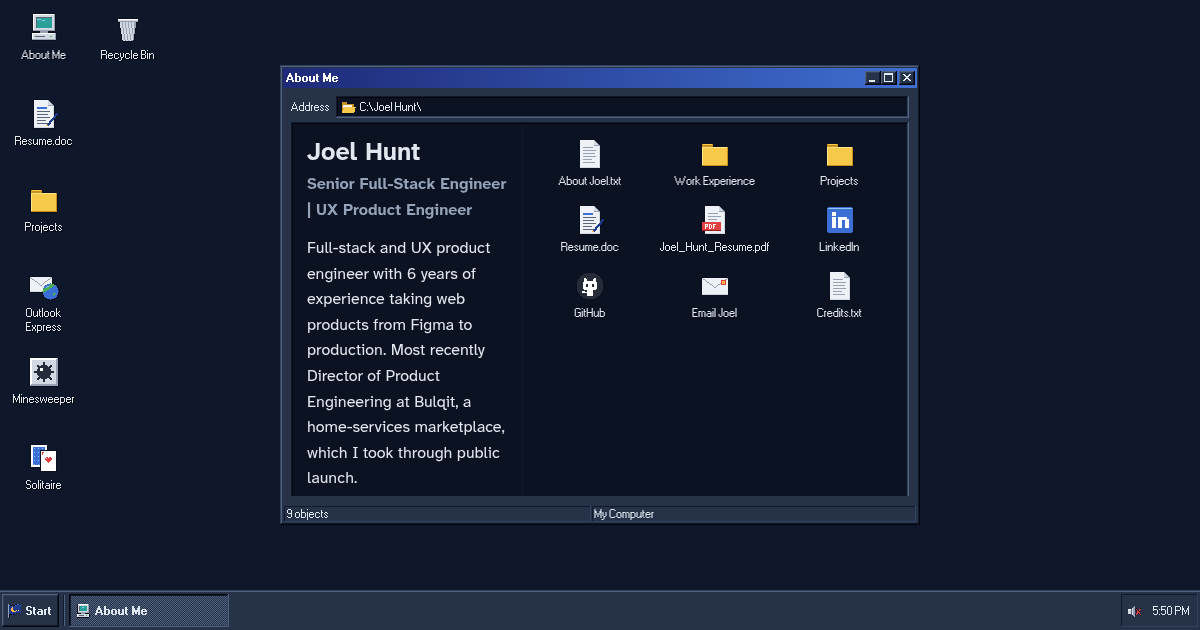
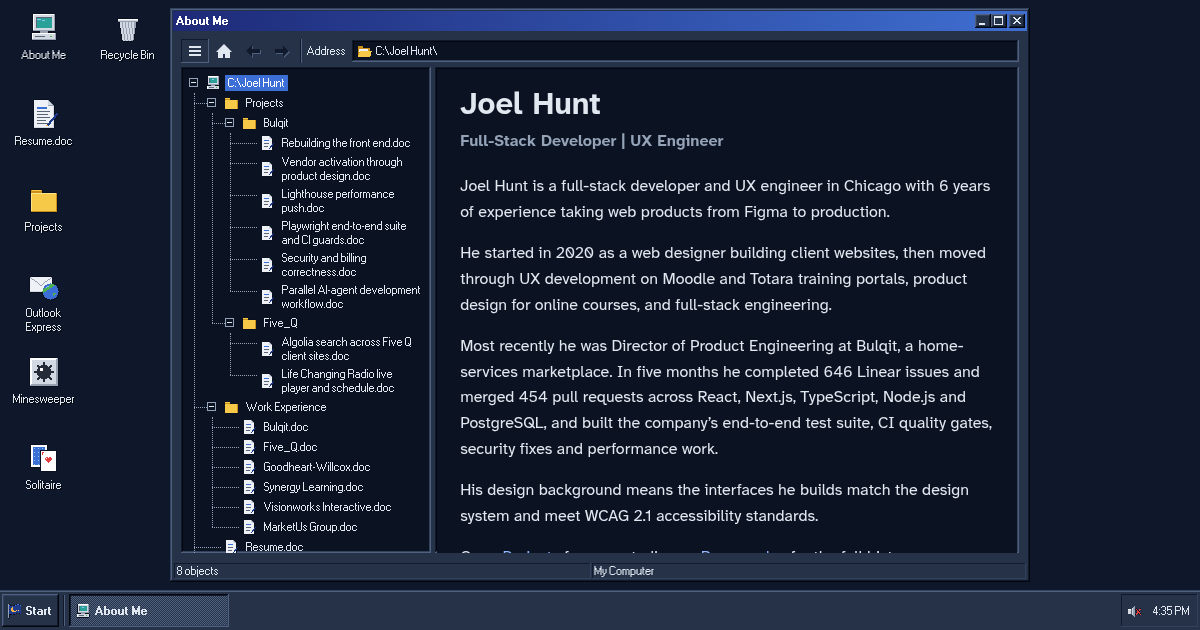
Change title to Full-Stack Developer | UX Engineer
Update the profile title, boot screen, summaries and page descriptions,
and refresh the social preview image to show the new title and the
current About Me explorer.

Claude-Session: https://claude.ai/code/session_01SxMcmxtnXW5LnvFMWEbM7E

Changed region(s): [[0.1233, 0.0, 0.8633, 0.9349]]

diff --git a/src/data/profile.ts b/src/data/profile.ts
@@ -3,14 +3,14 @@
 
 export const profile = {
   name: 'Joel Hunt',
-  title: 'Senior Full-Stack Engineer | UX Product Engineer',
+  title: 'Full-Stack Developer | UX Engineer',
   location: 'Chicago, IL',
   email: 'itsjoelhunt@gmail.com',
   summary:
-    'Full-stack and UX product engineer with 6 years of experience taking web products from Figma to production. Most recently Director of Product Engineering at Bulqit, a home-services marketplace, where I was one of two in-house engineers: I took over a codebase inherited from a dismissed agency, rebuilt its front end, and took the platform through public launch.',
+    'Full-stack developer and UX engineer with 6 years of experience taking web products from Figma to production. Most recently Director of Product Engineering at Bulqit, a home-services marketplace, where I was one of two in-house engineers: I took over a codebase inherited from a dismissed agency, rebuilt its front end, and took the platform through public launch.',
   // Two sentences for tight spaces such as the About Me details pane.
   shortSummary:
-    'Full-stack and UX product engineer with 6 years of experience taking web products from Figma to production. Most recently Director of Product Engineering at Bulqit, a home-services marketplace, which I took through public launch.',
+    'Full-stack developer and UX engineer with 6 years of experience taking web products from Figma to production. Most recently Director of Product Engineering at Bulqit, a home-services marketplace, which I took through public launch.',
   resumePdf: '/Joel_Hunt_Resume.pdf',
   links: [
     { id: 'linkedin', label: 'LinkedIn', href: 'https://www.linkedin.com/in/joel-hunt', handle: 'linkedin.com/in/joel-hunt' },
